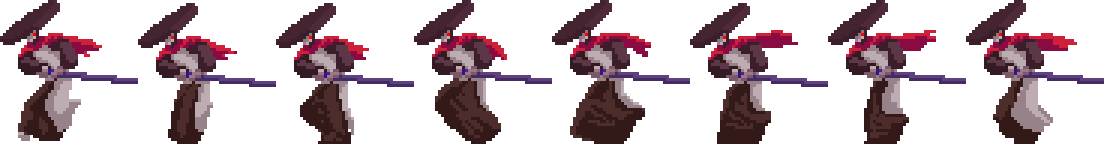
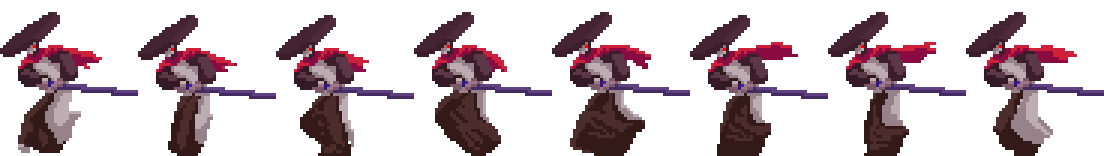
add mechanic of jump

diff --git a/base_classes/creature.py b/base_classes/creature.py
@@ -6,17 +6,22 @@ from animator import Animator
 
 class Creature(Rectangle):
     def __init__(self, left: int, top: int, image: str = None, size: tuple = None, move_speed: int = 100, hp: int = 50,
-                 color="yellow", type_: str = None, name: str = None) -> None:
+                 color="yellow", type_: str = None, name: str = None, gravity_strength: int = 10, jump_height: int = 25) -> None:
+        self.stats = {"hp": hp, "gravity_strength": gravity_strength, "speed": move_speed, "type": type_,
+                      "color": color, "jump_height": jump_height}
+        # надо убрать все переменные-характеристики игрока
         self.direction = pygame.Vector2(0, 0)
         self.move_speed = move_speed
         self.name = name
         self.hp = hp
         self.can_move = True
+        self.gravity_strength = gravity_strength
         self.type_ = type_
-        self.animator = Animator(self, ["idle", "move_right", "move_left", "attack", "hit"])
+        self.animator = Animator(self, ["idle", "move_right", "move_left", "attack", "hit", "jump"])
         image = self.animator.get_current_frame()
         super(Creature, self).__init__(left, top, image, size, color)
         self.hitbox = self.rect.copy()
+        self.jump_count = 0
 
     def move(self):
         if self.direction.x == 1 and self.move_speed != 0:
@@ -51,6 +56,20 @@ class Creature(Rectangle):
         rect.topleft = (left, top)
         return rect
 
+    def next_gravity_move(self, gravity_strength=None):
+        if not gravity_strength:
+            gravity_strength = self.gravity_strength
+        left = self.rect.left
+        top = self.rect.top
+        top += gravity_strength
+        rect = self.rect.copy()
+        rect.topleft = (left, top)
+        return rect
+
+    def gravity_move(self, y):
+        self.rect.y += y
+        self.hitbox.y += y
+
     def get_damage(self, attaker, damage):
         self.hp -= damage
         if self.hp <= 0:
@@ -63,6 +82,10 @@ class Creature(Rectangle):
 
     def make_attack(self):
         self.animator.trigger("attack")
+
+    def do_jump(self):
+        self.rect.y -= self.jump_count
+        self.hitbox.y -= self.jump_count
 
     def draw_hitbox(self):
         pygame.draw.rect(pygame.display.get_surface(), "green", self.hitbox, 5)

diff --git a/player.py b/player.py
@@ -2,6 +2,7 @@ import pygame
 from base_classes.creature import Creature
 from input_system.movement_input import Movement_Input
 from input_system.attack_input import Attack_Input
+from input_system.jump_input import Jump_Input
 from weapon import Weapon
 
 class Player(Creature):
@@ -10,18 +11,21 @@ class Player(Creature):
         super(Player, self).__init__(left, top, image, move_speed=move_speed, hp=hp, type_="player", name=name)
         self.movement_input = movement_input
         self.attack_input = Attack_Input()
+        self.jump_input = Jump_Input()
         if isinstance(weapon, type(None)):
             self.weapon = Weapon(0, 0, (0, 0), 0, self)
         else:
             self.weapon = weapon
         self.can_attack = True
+        self.can_jump = True
 
-    def add_weapon(self, weapon:Weapon):
+    def add_weapon(self, weapon: Weapon):
         self.weapon = weapon
 
     def update(self, enemies) -> None:
         self.direction = self.movement_input.get_input()
         attack = self.attack_input.get_input()
+        jump = self.jump_input.get_input()
         if attack != "":
             self.weapon.set_cords(self.rect.topleft)
             self.make_attack()
@@ -32,6 +36,11 @@ class Player(Creature):
             self.can_attack = False
         else:
             self.can_attack = True
+
+        if jump != "" and self.can_jump:
+            self.jump_count = self.stats["jump_height"]
+            self.animator.trigger("jump")
+
         # self.weapon.draw_weapon_range()
         super(Player, self).update()
 

diff --git a/level.py b/level.py
@@ -4,6 +4,7 @@ from base_classes.layer import Layer
 from scripts.unpack_column import unpack_column
 from scripts.unpack_json import unpack_json
 from enemy import Enemy
+from animator import Animator
 
 class Level:
     def __init__(self, width, height, player, path=None, left=0, top=0):
@@ -48,6 +49,23 @@ class Level:
             self.player.lock_movement()
         else:
             self.player.unlock_movement()
+
+        if self.obstacles.collide_with(self.player.next_gravity_move()):
+            for i in range(self.player.gravity_strength, -1, -1):
+                if not self.obstacles.collide_with(self.player.next_gravity_move(i)):
+                    self.player.gravity_move(i)
+                    self.player.animator.trigger("idle")
+        else:
+            self.player.gravity_move(self.player.gravity_strength)
+            self.player.can_jump = False
+
+        if self.obstacles.collide_with(self.player.next_gravity_move(1)):
+            self.player.can_jump = True
+
+        if self.player.jump_count != 0:
+            self.player.do_jump()
+            self.player.jump_count -= 1
+
         self.player.update(self.enemies.sprites())
         self.player.draw(screen)
 

diff --git a/game.py b/game.py
@@ -9,10 +9,10 @@ from gui.widgets.button import Button
 from main_menu import Main_Menu
 
 
-
 class Game:
     def __init__(self) -> None:
         pygame.init()
+        pygame.mixer.init()
         self.window_width = 1000
         self.window_height = 800
         self.screen = pygame.display.set_mode((self.window_width, self.window_height))
@@ -50,6 +50,7 @@ class Game:
     def quit_game(self):
         pygame.quit()
         exit()
+
 
 if __name__ == "__main__":
     game = Game()

diff --git a/input_system/movement_input.py b/input_system/movement_input.py
@@ -6,7 +6,7 @@ class Movement_Input:
                  key_jump=pygame.K_SPACE, used_buttons=None):
 
         if used_buttons is None:
-            used_buttons = {"key_up": True, "key_down": True, "key_left": True, "key_right": True, "key_jump": True}
+            used_buttons = {"key_up": False, "key_down": False, "key_left": True, "key_right": True, "key_jump": True}
         self.used_buttons = used_buttons
         self.key_up = key_up
         self.key_down = key_down

diff --git a/input_system/jump_input.py b/input_system/jump_input.py
@@ -1,0 +1,16 @@
+import pygame
+
+
+class Jump_Input:
+    def __init__(self, jump=pygame.K_SPACE, used_buttons=None):
+        if not used_buttons:
+            used_buttons = {"jump": True}
+
+        self.used_buttons = used_buttons
+        self.jump = jump
+
+    def get_input(self) -> str:
+        keys = pygame.key.get_pressed()
+        if keys[self.jump] and self.used_buttons["jump"]:
+            return "jump"
+        return ""

diff --git a/base_classes/obstacles.py b/base_classes/obstacles.py
@@ -1,4 +1,5 @@
 import pygame
 
+
 class Obstacles:
     pass
